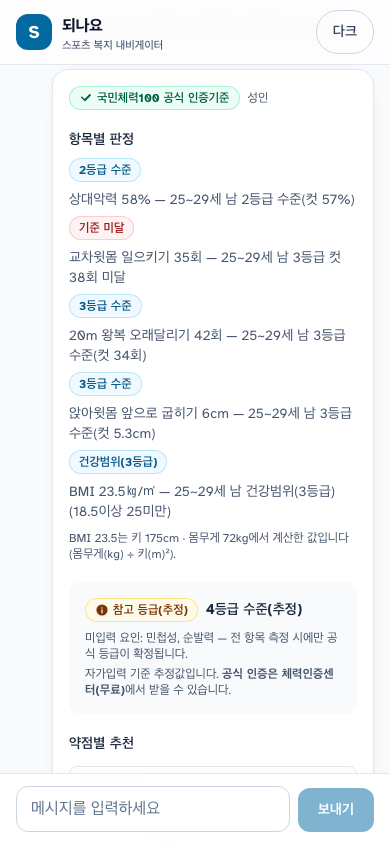
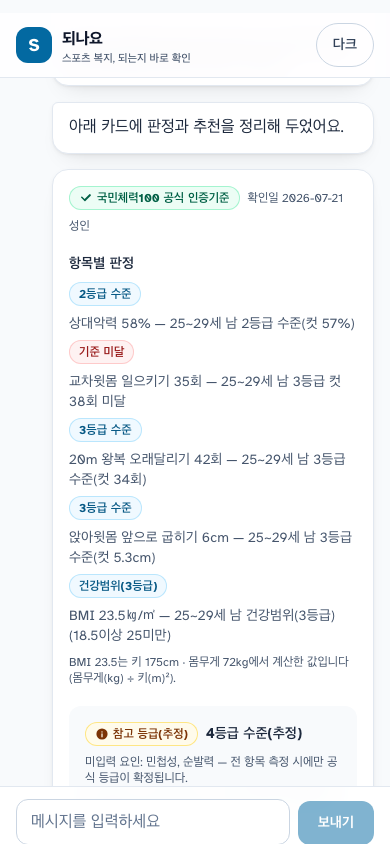
report: F0 체력 판정 컷 재촬영(확인일 2026-07-21 포함, 프로덕션 03ffe7b) + 캡션
Claude-Session: https://claude.ai/code/session_016enAi1oY3B1iyDBMAYzPTx

diff --git a/docs/REPORT_DRAFT.md b/docs/REPORT_DRAFT.md
@@ -93,7 +93,7 @@
 
 1. **자격 판정 + "지금 바로 되는 것" 히어로** — 제도별 예상 자격을 조건 단위 사유("지원 연령(5~18세)을 벗어났습니다 (현재 27세) · 소득 기준(기초생활수급·차상위·한부모)에 해당하지 않습니다")와 공식 출처·확인일로 판정한다. ✗ 카드는 지우지 않되 작게 두고, **결과 덱 밖 전폭 블록**으로 "이용권은 대상이 아니지만, 지금 바로 되는 것 **N가지**"를 올린다. **N은 공식 확인된 대체 경로 수만** 센다(P2 = 튼튼머니·문화비 소득공제 2건). 검증이 끝나지 않은 항목(공공시설 프로그램)은 N에 넣지 않고 블록 안에 **"확인 중 1건"** 으로 따로 적는다 — 헤딩의 숫자가 곧 약속이기 때문이다. ![P2-hero-1280](../web/e2e-shots/report/P2-hero-1280.png)
 2. **선정순위 안내(장애인이용권)** — "**소득과 관계없이 신청할 수 있습니다**" 강조 + 공식 5단계 선정순위 기반 **예상 순위**("예상 5순위(성인·비저소득)" + "선정은 우선순위제 — 지자체 예산·경쟁에 따라 대기 가능")를 결정론으로 계산해 보여주고, 대기 중에 할 수 있는 것을 같은 화면에서 잇는다. ![P5-priority](../web/e2e-shots/report/P5-priority.png)
-3. **체력 판정(국민체력100 완전 연동)** — 공식 인증기준 **1,052개 컷오프**로 항목별 판정("교차윗몸 35회 — 25~29세 남 3등급 컷 38회 미달")과 참고 등급(추정)을 낸다. 판정 화면은 항목마다 **내 값 · 해당 연령·성별 등급 컷 · 출처(국민체력100 공식 인증기준)** 를 같이 띄운다 — 등급만 내고 근거를 감추지 않는다. ![F0-fitness-verdict-390](../web/e2e-shots/report/F0-fitness-verdict-390.png) — 판정 화면: 항목별 내 값 · 등급 컷(교차윗몸 35회 — 3등급 컷 38회 미달) · 출처 배지(국민체력100 공식 인증기준) · 참고 등급(추정). 약점 요인은 지식그래프(노드 1,882·엣지 7,419 — 공단 공식 기준·정부 지침·공단 영상 분류·전문가 큐레이션 4단 출처)로 운동·**공단 운동처방 영상**·근처 강좌에 연결되며, 영상은 공단 원천의 **썸네일 이미지와 mp4 링크를 https 실링크로** 띄운다. AI 문장은 검증된 슬롯만 채우고 실패 시 규칙 기반으로 폴백하며, 어느 쪽이 썼는지 제공자 라벨로 밝힌다. 데모 페르소나(P2·P5)는 측정값이 미리 채워져 있어 심사위원이 값을 지어내지 않아도 끝까지 흐른다(문진 프리셋에는 "데모 프리셋 — 실사용은 직접 확인" 라벨). ![F1-fitness-thumbs](../web/e2e-shots/report/F1-fitness-thumbs.png) — 근지구력 약점 → 종목 → **공단 운동처방 영상 3편의 실제 썸네일**(openapi.kspo.or.kr 원천 이미지·mp4, https 실링크). 화면은 근거 등급을 숨기지 않는다: 추천마다 「공단 공식 기준」·「공단 콘텐츠」·「전문가 큐레이션(검증 중)」 배지가 붙고, 검증 중인 큐레이션은 처방 근거에 넣지 않는다.
+3. **체력 판정(국민체력100 완전 연동)** — 공식 인증기준 **1,052개 컷오프**로 항목별 판정("교차윗몸 35회 — 25~29세 남 3등급 컷 38회 미달")과 참고 등급(추정)을 낸다. 판정 화면은 항목마다 **내 값 · 해당 연령·성별 등급 컷 · 출처(국민체력100 공식 인증기준, 확인일)** 를 같이 띄운다 — 등급만 내고 근거를 감추지 않는다. ![F0-fitness-verdict-390](../web/e2e-shots/report/F0-fitness-verdict-390.png) — 판정 화면: 항목별 내 값 · 등급 컷(교차윗몸 35회 — 3등급 컷 38회 미달) · 출처 배지(국민체력100 공식 인증기준) + 확인일 · 참고 등급(추정). 약점 요인은 지식그래프(노드 1,882·엣지 7,419 — 공단 공식 기준·정부 지침·공단 영상 분류·전문가 큐레이션 4단 출처)로 운동·**공단 운동처방 영상**·근처 강좌에 연결되며, 영상은 공단 원천의 **썸네일 이미지와 mp4 링크를 https 실링크로** 띄운다. AI 문장은 검증된 슬롯만 채우고 실패 시 규칙 기반으로 폴백하며, 어느 쪽이 썼는지 제공자 라벨로 밝힌다. 데모 페르소나(P2·P5)는 측정값이 미리 채워져 있어 심사위원이 값을 지어내지 않아도 끝까지 흐른다(문진 프리셋에는 "데모 프리셋 — 실사용은 직접 확인" 라벨). ![F1-fitness-thumbs](../web/e2e-shots/report/F1-fitness-thumbs.png) — 근지구력 약점 → 종목 → **공단 운동처방 영상 3편의 실제 썸네일**(openapi.kspo.or.kr 원천 이미지·mp4, https 실링크). 화면은 근거 등급을 숨기지 않는다: 추천마다 「공단 공식 기준」·「공단 콘텐츠」·「전문가 큐레이션(검증 중)」 배지가 붙고, 검증 중인 큐레이션은 처방 근거에 넣지 않는다.
 4. **근처 시설·강좌 검색(좌표 정직성)** — 전국 155,554 시설·89,914 강좌. **실좌표 보유 시설을 구 중심 근사 시설보다 먼저** 정렬하고, 근사 시설에는 "위치 근사" 배지를 달고 거리를 쓰지 않는다. 요약 문구는 화면에 실제 표시한 수와 구 단위 카운트를 분리한다 — 자격이 되는 사용자에게는 **"근처 N곳 표시 · 성북구 가맹 161곳"**, 자격 ✗ 사용자에게는 **못 쓰는 제도의 가맹 수를 아예 쓰지 않고** "근처 대안 N곳 표시"만 남긴다(위 P2-hero-1280이 후자 화면이다). 시설 출처는 원천 구분 그대로 **공공 / 신고 / 등록** 배지로 표기한다(개방 데이터 117,863행 중 신고가 62.4%이므로 이를 통칭 "공공체육시설"이라 부르면 원천을 바꿔 부르는 것이 된다). 수강료가 비어 있으면 수강료·지원금·자부담 **세 칸 모두** "미등록 · 시설 문의"로 적고, 결측이 대부분인 섹션은 상단에 "총 N곳 · 수강료 미등록 M곳 — 시설 문의" 한 줄을 둔다. 자격 ✗ 사용자에게는 **지원금을 차감하지 않는다**(자부담 = 수강료).
 5. **접근성 정보·필터(장애인이 1차 사용자)** — 시설별 장애지원 유형(8종)·편의시설(휠체어 대여 577곳·수중리프트 177곳 등 10종) 필터와 태그. 공식 API에 없는 정보를 공단 웹 공개 정보에서 수집·정합 검증(대사 97.5%)해 제공하고, 정보가 없는 시설은 "접근성 정보 없음"으로 미상과 부재를 구분한다. ![P3-accessibility](../web/e2e-shots/report/P3-accessibility.png) — 성북구 장애인 가맹 6곳. **6곳 전부 원천에 수강료가 없다**(4)항 개방 요청 4번의 실물). 이 칸을 "무료"·"0원"으로 채우지 않고 6곳 전부 "미등록 · 시설 문의"로 두며, 섹션 상단에 "총 6곳 · 수강료 미등록 6곳"을 **먼저** 밝힌다. 화면이 비어 보이는 것이 아니라, **원천이 비어 있다는 사실을 그대로 보여주는 화면**이다.
 6. **뒷면 — "가맹 유치 우선순위" 표(`gap.html`)** — 같은 데이터의 정책담당자용 얼굴. 시군구별로 **장애인 가맹 · 일반 가맹 · 공공시설(원천 구분 '공공'만) · 제안**을 한 표에 정렬해 보여주는 정적 페이지다(`/gap`). 시민용 앞면과 정책용 뒷면이 한 데이터에서 나오는 양면 제품이며, 이것이 아래 사업화 서사의 실물이다. ![gap-page](../web/e2e-shots/report/gap-page.png) `228행(영역그룹 합산) · 제안 태그 3곳. 제안은 임계값을 공개한 규칙으로만 붙는다 — ① 장애인 가맹 0곳 + 공공시설 1곳 이상 → "전환 후보" ② 장애인 가맹 2곳 이하 + 공공시설 ≥ 247(이 표 분포의 75퍼센타일) → "확대 후보". 나머지 225행을 빈칸으로 두는 것이 이 표의 규칙이다: 근거 없는 제안을 만들지 않는다. 이 페이지의 값은 태그가 아니라 정렬·검색되는 시군구별 원표 자체에 있다.`
